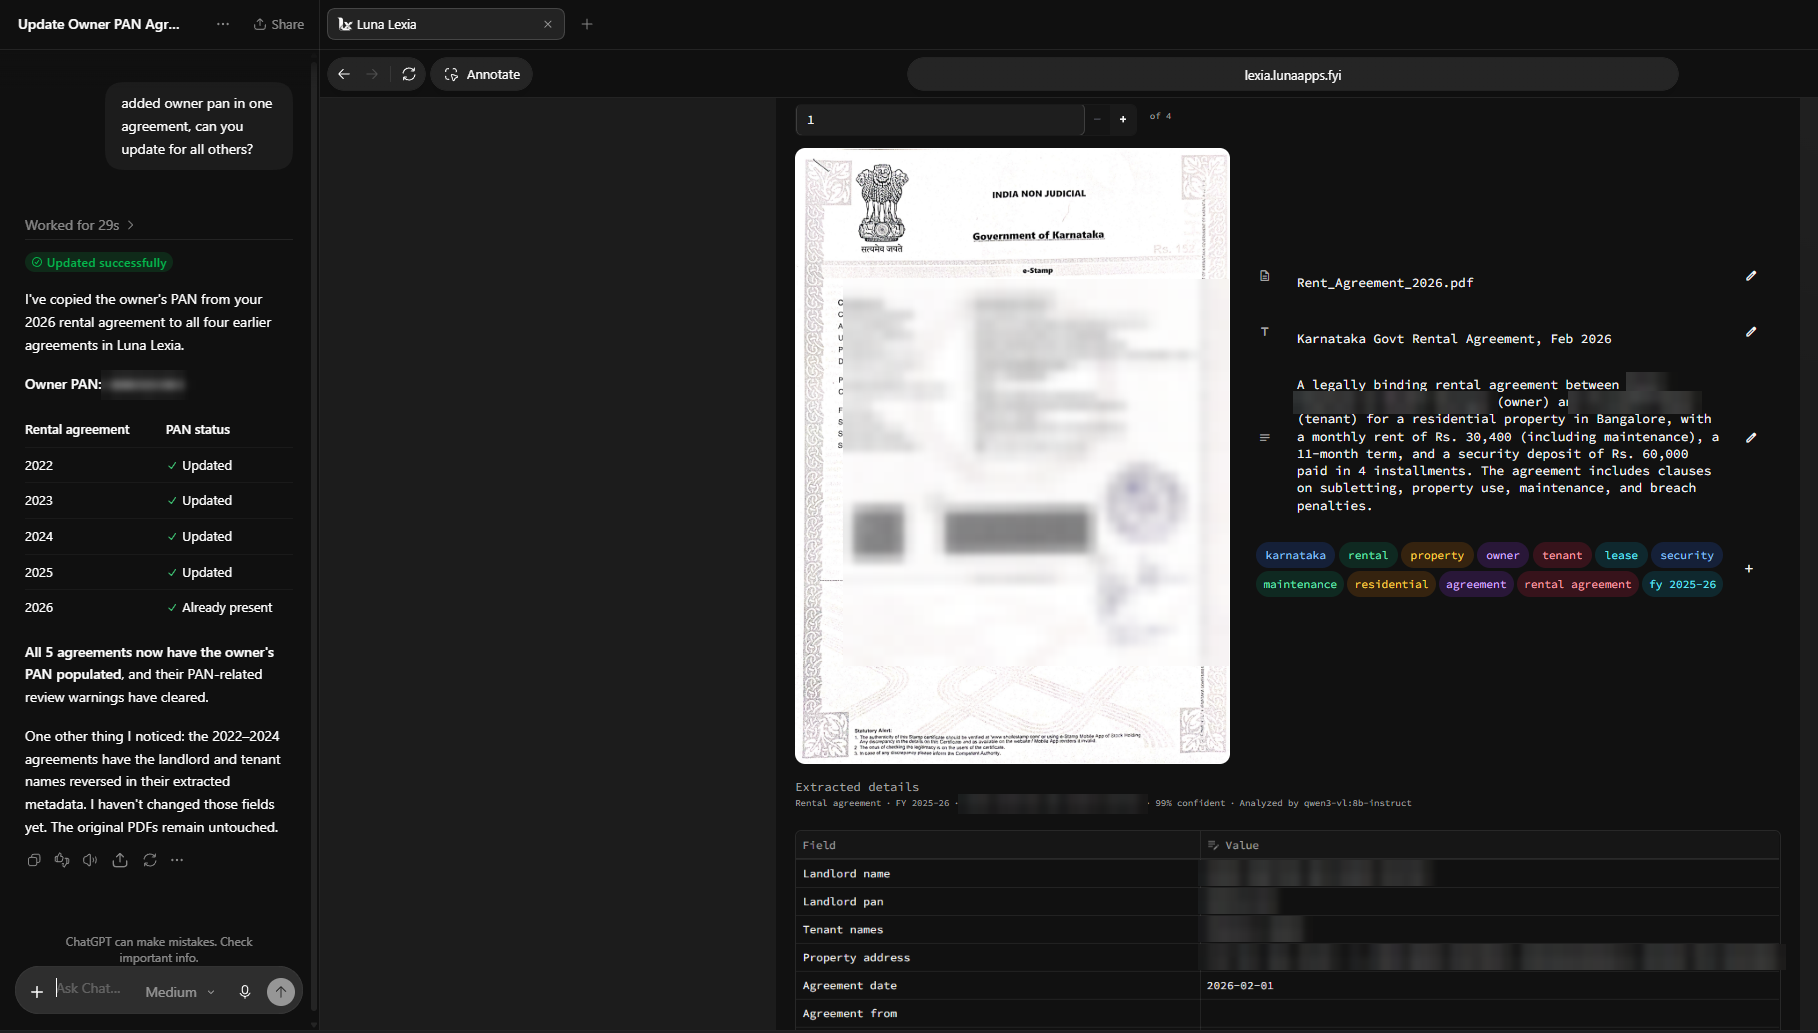
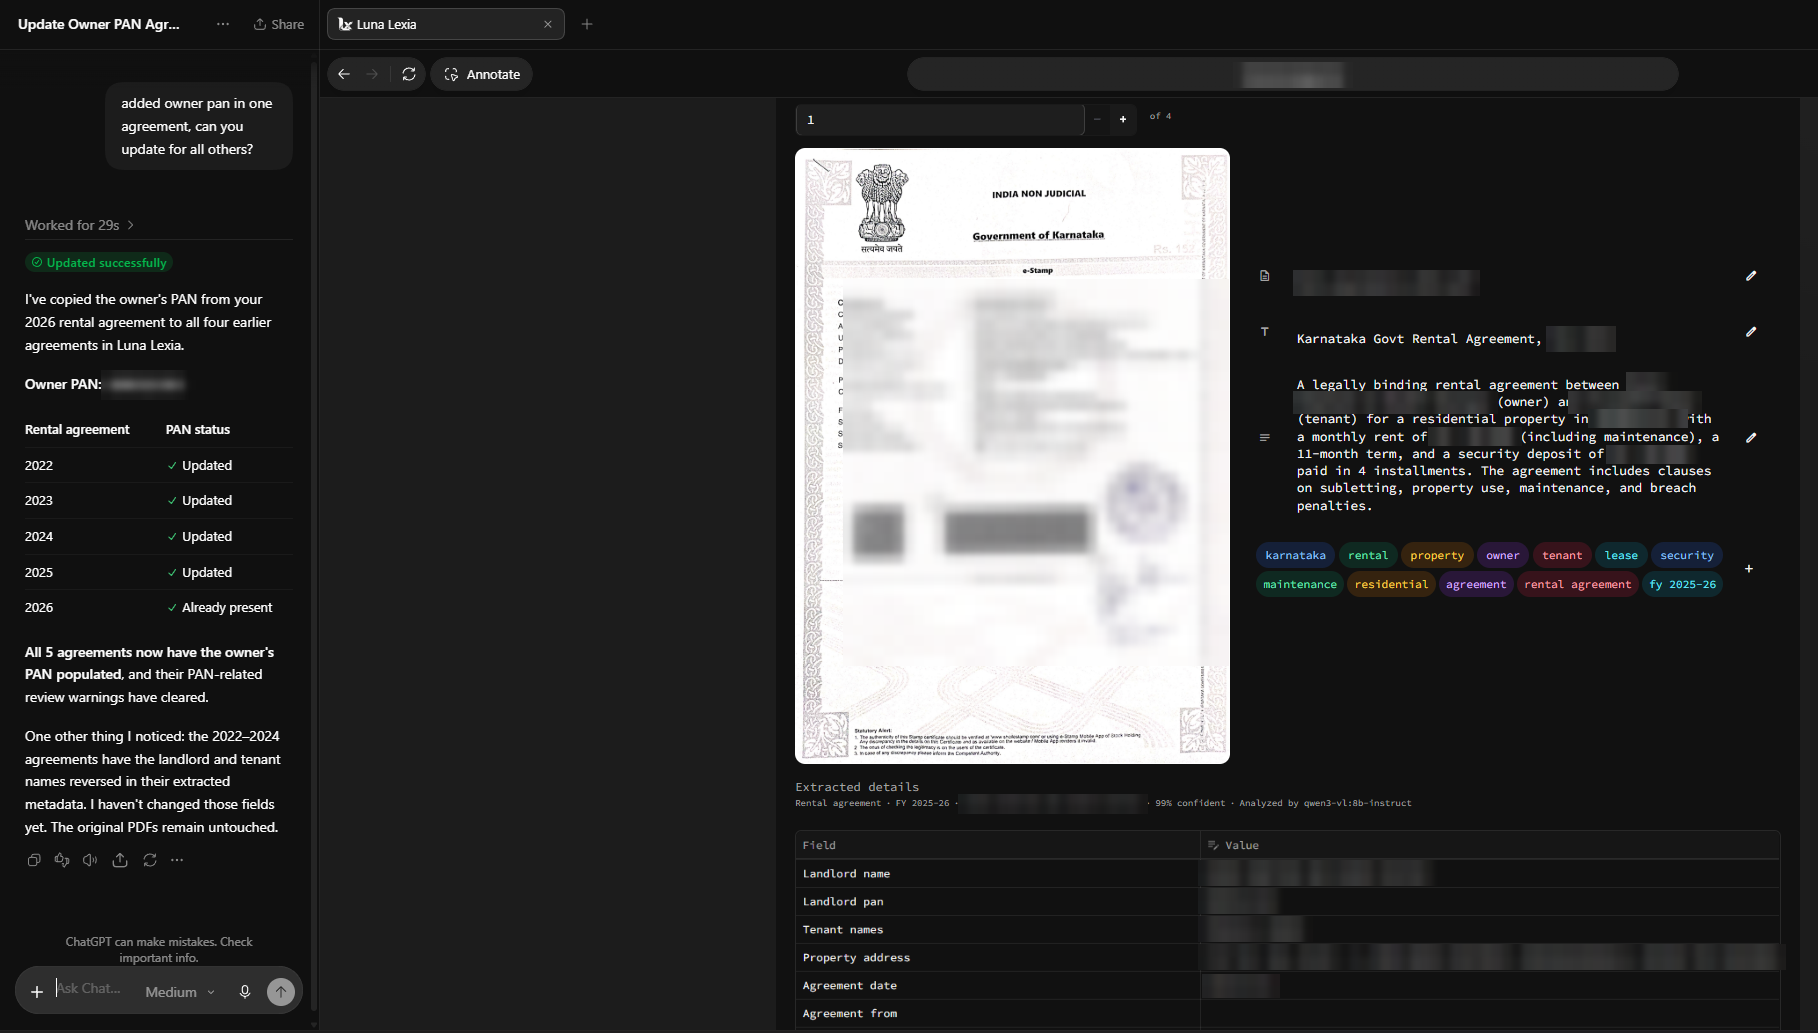
Blurring amounts, dates, places, and addresses in the MCP showcase screenshot

diff --git a/README.md b/README.md
@@ -33,13 +33,13 @@ correct documents; each card shows the document type, financial year, size, and
 tags, and anything that needs review is flagged.
 
 <p align="center">
-  <img src="docs/assets/luna-lexia-chatgpt-mcp.png" alt="ChatGPT using Luna Lexia's MCP tools to copy a landlord's PAN into every rental agreement, beside the document in Lexia (personal details blurred)" width="900">
+  <img src="docs/assets/luna-lexia-chatgpt-mcp.png" alt="ChatGPT using Luna Lexia's MCP tools to copy a landlord's PAN into every rental agreement, beside the document in Lexia (names, identifiers, amounts, dates, places, and addresses blurred)" width="900">
 </p>
 
 Any assistant connected over MCP works on the same library. Here ChatGPT, asked
 to copy the owner's PAN from one rental agreement into the others, corrects the
 extracted details of all five agreements; their review warnings clear, and the
-original PDFs are untouched.
+original PDFs are untouched. Personal details in the screenshot are blurred.
 
 > **Requires Luna Sentia, running and healthy:** Luna Lexia keeps its data in Luna Sentia's PostgreSQL (`luna-sentia-db`) and joins Sentia's `luna_sentia_network`; it has no database of its own. Start [Luna Sentia](https://github.com/pranjallk1995/Luna_Sentia) first and wait until its `postgres` and `ollama` services report healthy, as described under [Start](#start). Sentia also serves the model: Lexia uses `qwen3-vl:8b-instruct` by default, which Sentia pulls with its other models.
 
